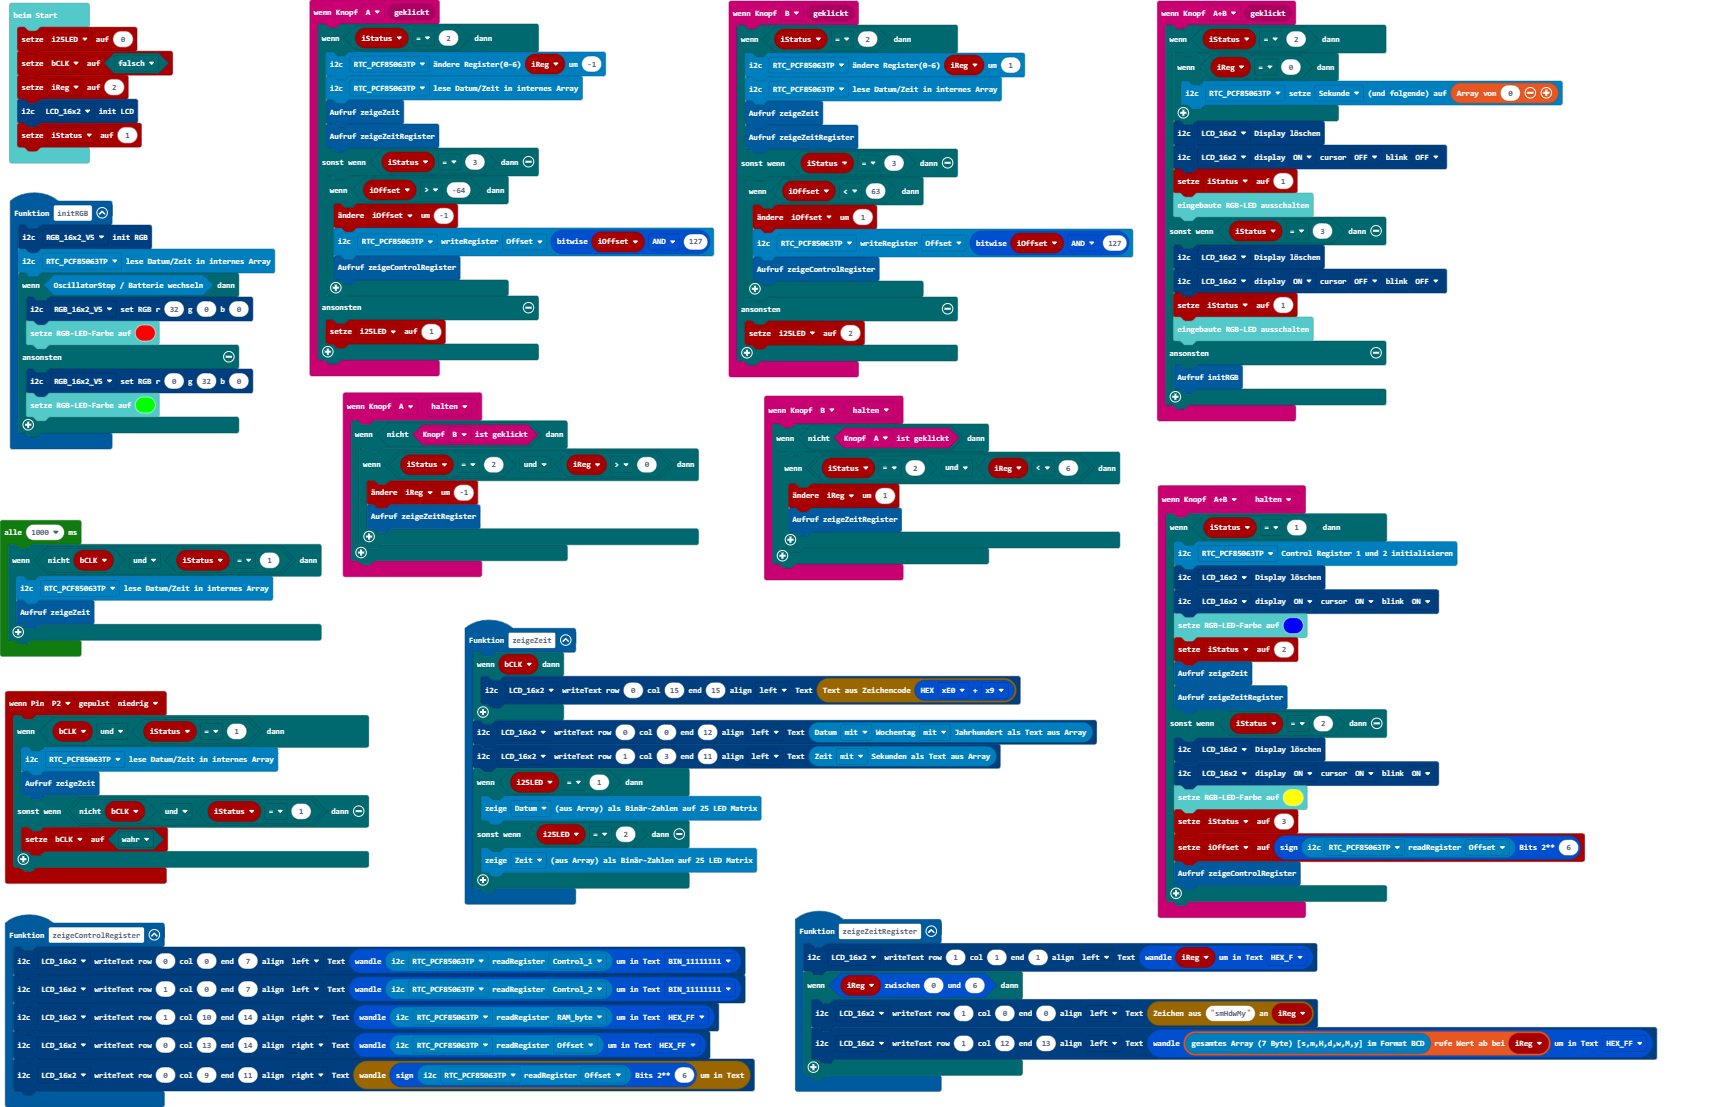
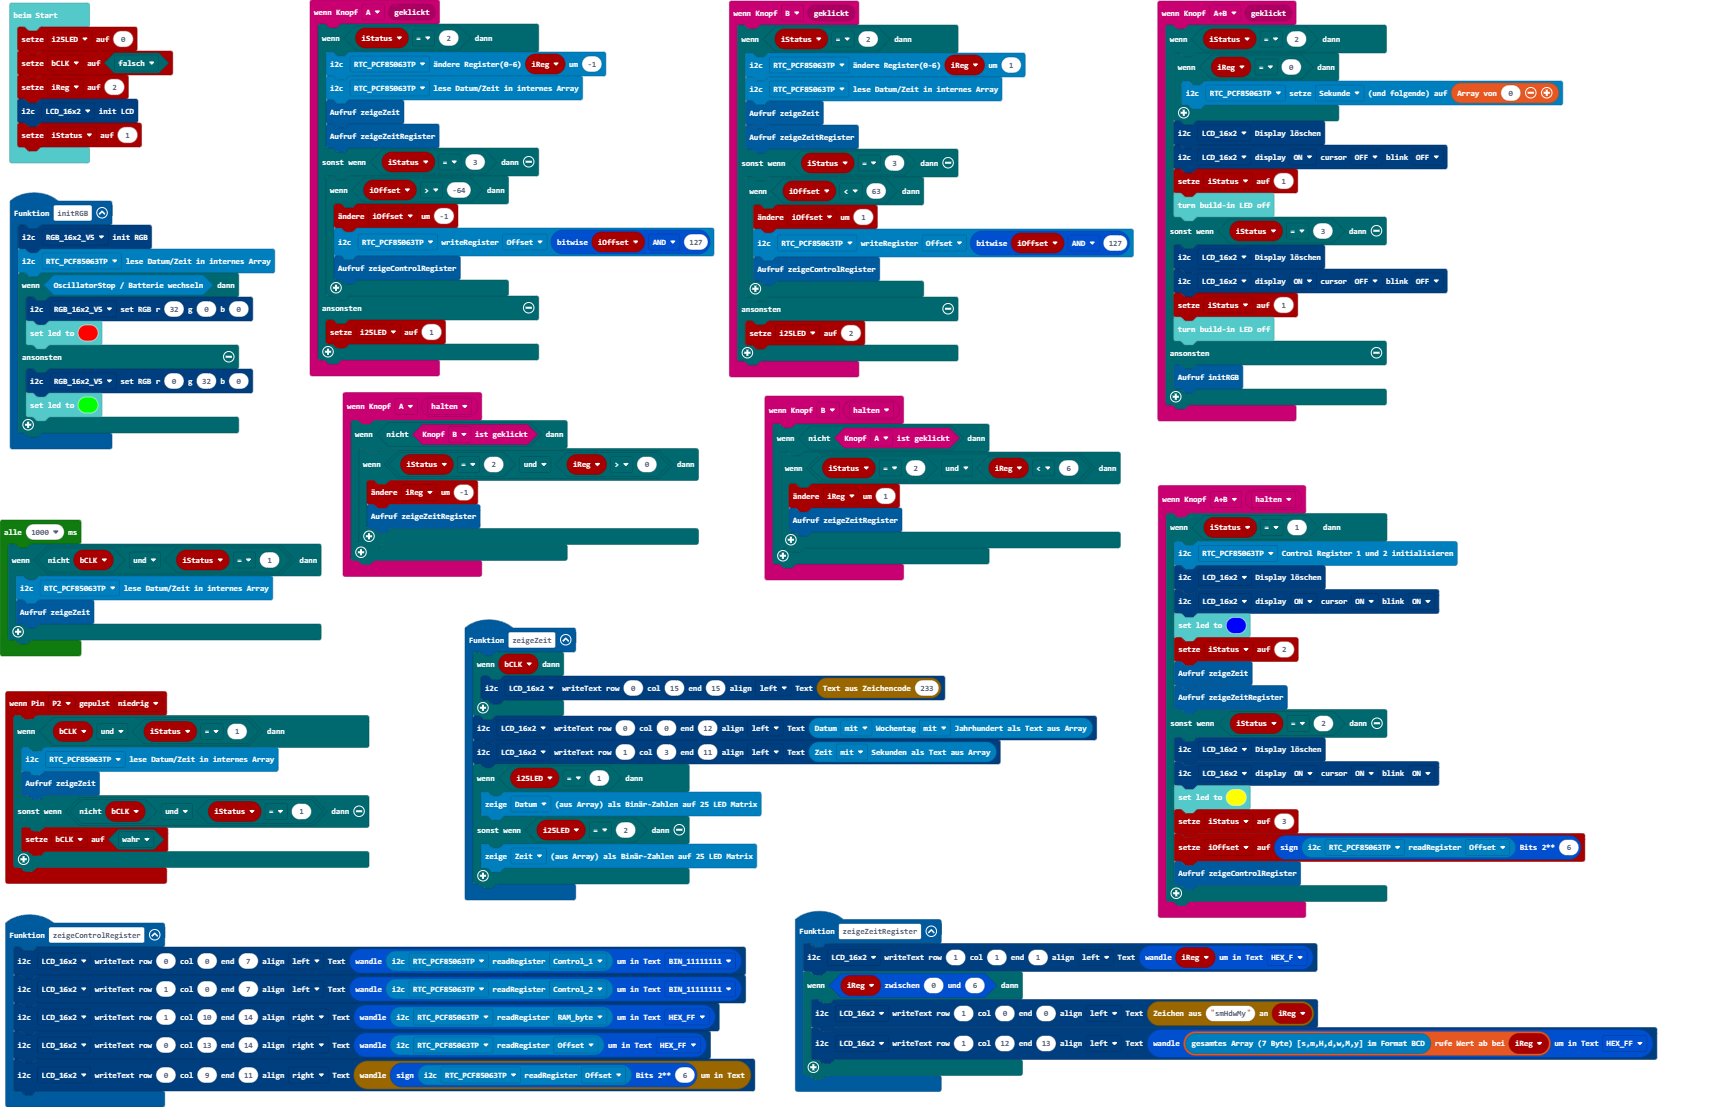
Aktualisiere pxt.json, main.blocks, main.ts

diff --git a/main.ts b/main.ts
@@ -23,7 +23,7 @@ input.onButtonEvent(Button.A, input.buttonEventClick(), function () {
 })
 function zeigeZeit () {
     if (bCLK) {
-        lcd16x2rgb.writeText(lcd16x2rgb.eADDR_LCD.LCD_16x2, 0, 15, 15, lcd16x2rgb.eAlign.left, String.fromCharCode(bit.hex(bit.H4.xE0, bit.H0.x9)))
+        lcd16x2rgb.writeText(lcd16x2rgb.eADDR_LCD.LCD_16x2, 0, 15, 15, lcd16x2rgb.eAlign.left, String.fromCharCode(233))
     }
     lcd16x2rgb.writeText(lcd16x2rgb.eADDR_LCD.LCD_16x2, 0, 0, 12, lcd16x2rgb.eAlign.left, rtcpcf85063tp.getDate(rtcpcf85063tp.ePart.mit, rtcpcf85063tp.ePart.mit))
     lcd16x2rgb.writeText(lcd16x2rgb.eADDR_LCD.LCD_16x2, 1, 3, 11, lcd16x2rgb.eAlign.left, rtcpcf85063tp.getTime(rtcpcf85063tp.ePart.mit))
@@ -93,7 +93,7 @@ function initRGB () {
         basic.setLedColor(0x00ff00)
     }
 }
-input.onButtonEvent(Button.A, input.buttonEventValue(ButtonEvent.Hold), function () {
+input.onButtonEvent(Button.A, ButtonEvent.Hold, function () {
     if (!(input.buttonIsPressed(Button.B))) {
         if (iStatus == 2 && iReg > 0) {
             iReg += -1
@@ -101,7 +101,7 @@ input.onButtonEvent(Button.A, input.buttonEventValue(ButtonEvent.Hold), function
         }
     }
 })
-input.onButtonEvent(Button.B, input.buttonEventValue(ButtonEvent.Hold), function () {
+input.onButtonEvent(Button.B, ButtonEvent.Hold, function () {
     if (!(input.buttonIsPressed(Button.A))) {
         if (iStatus == 2 && iReg < 6) {
             iReg += 1
@@ -109,7 +109,7 @@ input.onButtonEvent(Button.B, input.buttonEventValue(ButtonEvent.Hold), function
         }
     }
 })
-input.onButtonEvent(Button.AB, input.buttonEventValue(ButtonEvent.Hold), function () {
+input.onButtonEvent(Button.AB, ButtonEvent.Hold, function () {
     if (iStatus == 1) {
         rtcpcf85063tp.initRegister(rtcpcf85063tp.eADDR.RTC_PCF85063TP)
         lcd16x2rgb.screenClear(lcd16x2rgb.eADDR_LCD.LCD_16x2)
